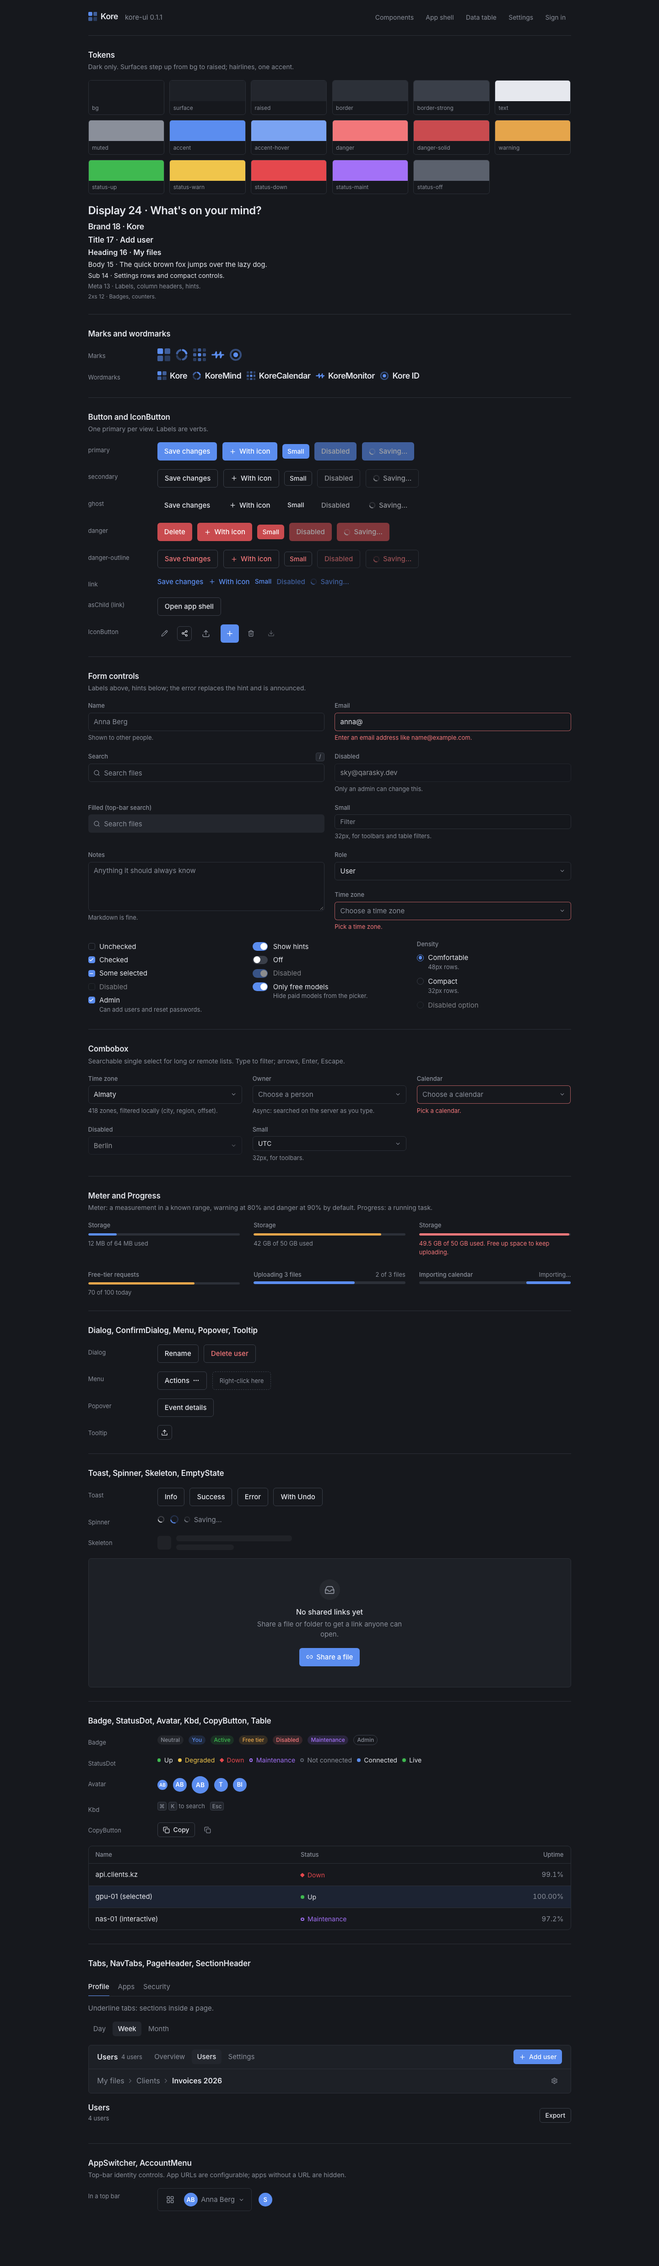
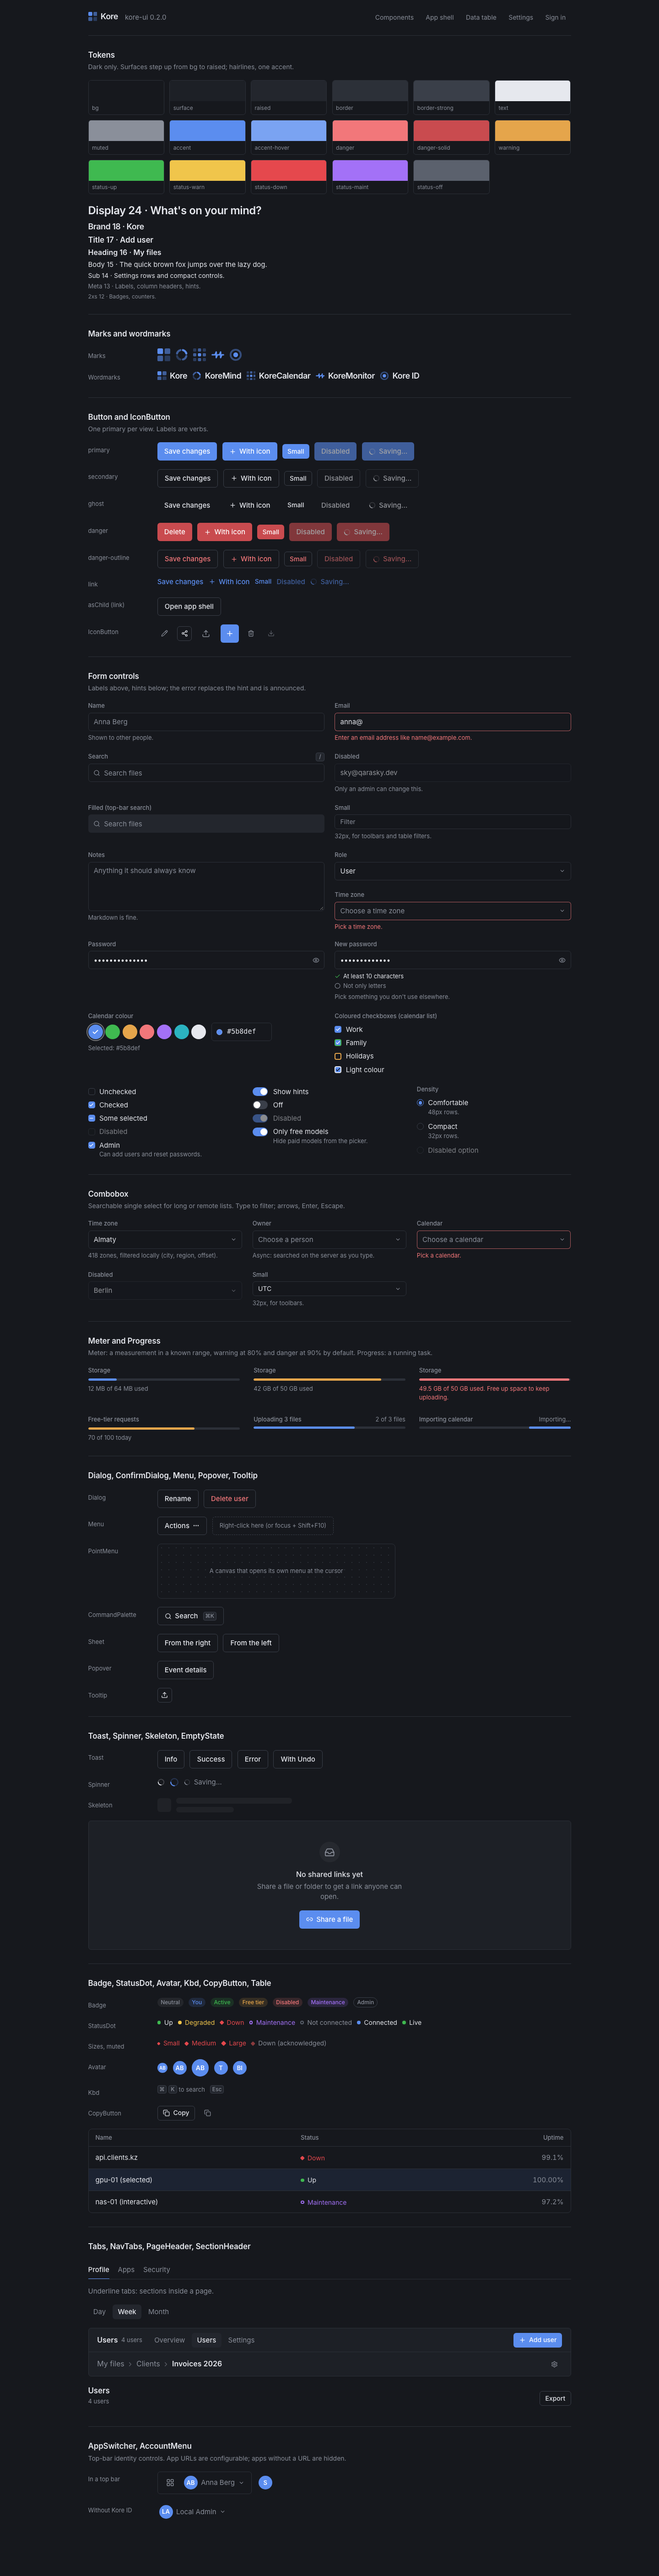
Showcase the 0.2.0 components; new screenshots
Command palette (global ⌘K on the files page), details Sheet (side and bottom),
keyboard-opened ContextMenu with a submenu, PointMenu on a canvas, PasswordInput,
ColorSwatchPicker and coloured checkboxes, StatusDot sizes/muted, AccountMenu
without Kore ID, AuthScreen set-password.

diff --git a/packages/kore-ui/showcase/src/pages/Gallery.tsx b/packages/kore-ui/showcase/src/pages/Gallery.tsx
@@ -7,13 +7,18 @@ import {
   Button,
   Card,
   Checkbox,
+  ColorSwatchPicker,
   Combobox,
+  CommandPalette,
   ConfirmDialog,
   ContextMenu,
   ContextMenuContent,
   ContextMenuItem,
   ContextMenuLabel,
   ContextMenuSeparator,
+  ContextMenuSub,
+  ContextMenuSubContent,
+  ContextMenuSubTrigger,
   ContextMenuTrigger,
   CopyButton,
   Dialog,
@@ -40,6 +45,16 @@ import {
   MenuTrigger,
   NavTabs,
   PageHeader,
+  PasswordInput,
+  PointMenu,
+  Sheet,
+  SheetBody,
+  SheetContent,
+  SheetFooter,
+  SheetTrigger,
+  minLengthRule,
+  pointFromEvent,
+  type MenuPoint,
   Popover,
   PopoverContent,
   PopoverTrigger,
@@ -72,7 +87,24 @@ import {
   useToast,
   type ProductId,
 } from "@qarasky/kore-ui";
-import { Copy, Download, FolderOpen, Inbox, Link2, MoreHorizontal, Pencil, Plus, Search, Settings, Share2, Trash2, Upload } from "lucide-react";
+import {
+  Archive,
+  Copy,
+  Download,
+  FolderOpen,
+  HardDrive,
+  Inbox,
+  KeyRound,
+  Link2,
+  MoreHorizontal,
+  Pencil,
+  Plus,
+  Search,
+  Settings,
+  Share2,
+  Trash2,
+  Upload,
+} from "lucide-react";
 import { useState, type ReactNode } from "react";
 import { ACCOUNT_URL, APP_URLS, ME, PAGES } from "../demo";
 import { TIME_ZONES, searchPeople } from "../timezones";
@@ -102,6 +134,9 @@ export function Gallery() {
   const toast = useToast();
   const [checked, setChecked] = useState<boolean | "indeterminate">("indeterminate");
   const [showHints, setShowHints] = useState(true);
+  const [paletteOpen, setPaletteOpen] = useState(false);
+  const [point, setPoint] = useState<MenuPoint | null>(null);
+  const [colour, setColour] = useState("#5b8def");
 
   return (
     <div className="mx-auto max-w-[1100px] px-6 pb-24">
@@ -109,7 +144,7 @@ export function Gallery() {
         <div className="text-brand">
           <Wordmark app="kore" />
         </div>
-        <span className="text-muted">kore-ui 0.1.1</span>
+        <span className="text-muted">kore-ui 0.2.0</span>
         <nav aria-label="Showcase pages" className="ml-auto flex flex-wrap gap-1">
           {PAGES.map((p) => (
             <a key={p.href} href={p.href} className="rounded-ui px-3 py-1.5 text-sub text-muted hover:bg-white/5 hover:text-text">
@@ -253,6 +288,41 @@ export function Gallery() {
             </Field>
           </div>
         </div>
+        <div id="password-colour" className="grid gap-6 md:grid-cols-2">
+          <Field label="Password">
+            <PasswordInput defaultValue="hunter2hunter2" />
+          </Field>
+          <Field label="New password" hint="Pick something you don't use elsewhere.">
+            <PasswordInput
+              newPassword
+              defaultValue="correct horse"
+              rules={[minLengthRule(10), { label: "Not only letters", test: (p) => /[^a-z]/i.test(p.replace(/ /g, "")) }]}
+            />
+          </Field>
+          <Field label="Calendar colour" hint={`Selected: ${colour}`}>
+            <ColorSwatchPicker
+              value={colour}
+              onValueChange={setColour}
+              allowCustom
+              colors={[
+                { value: "#5b8def", label: "Blue" },
+                { value: "#3fb950", label: "Green" },
+                { value: "#e5a54b", label: "Amber" },
+                { value: "#f2777a", label: "Red" },
+                { value: "#a371f7", label: "Violet" },
+                { value: "#2bb3c0", label: "Teal" },
+                { value: "#e6e8ee", label: "Light" },
+              ]}
+            />
+          </Field>
+          <fieldset className="flex flex-col">
+            <legend className="mb-1.5 text-meta font-medium text-muted">Coloured checkboxes (calendar list)</legend>
+            <Checkbox label="Work" color="#5b8def" defaultChecked />
+            <Checkbox label="Family" color="#3fb950" defaultChecked />
+            <Checkbox label="Holidays" color="#e5a54b" />
+            <Checkbox label="Light colour" color="#e6e8ee" defaultChecked />
+          </fieldset>
+        </div>
         <div className="grid gap-6 md:grid-cols-3">
           <div className="flex flex-col">
             <Checkbox label="Unchecked" />
@@ -384,19 +454,102 @@ export function Gallery() {
           </Menu>
           <ContextMenu>
             <ContextMenuTrigger asChild>
-              <div className="flex h-control items-center rounded-ui border border-dashed border-border-strong px-4 text-meta text-muted">
-                Right-click here
+              <div
+                tabIndex={0}
+                data-testid="context-area"
+                className="flex h-control items-center rounded-ui border border-dashed border-border-strong px-4 text-meta text-muted"
+              >
+                Right-click here (or focus + Shift+F10)
               </div>
             </ContextMenuTrigger>
             <ContextMenuContent>
               <ContextMenuLabel>Selection</ContextMenuLabel>
-              <ContextMenuItem icon={<Copy />}>Copy</ContextMenuItem>
+              <ContextMenuItem icon={<Copy />} shortcut="⌘C">
+                Copy
+              </ContextMenuItem>
+              <ContextMenuSub>
+                <ContextMenuSubTrigger icon={<Archive />}>Move to</ContextMenuSubTrigger>
+                <ContextMenuSubContent>
+                  <ContextMenuItem>Archive</ContextMenuItem>
+                  <ContextMenuItem>Shared space</ContextMenuItem>
+                </ContextMenuSubContent>
+              </ContextMenuSub>
               <ContextMenuSeparator />
               <ContextMenuItem danger icon={<Trash2 />}>
                 Delete
               </ContextMenuItem>
             </ContextMenuContent>
           </ContextMenu>
+        </Row>
+        <Row label="PointMenu">
+          <div
+            tabIndex={0}
+            data-testid="canvas"
+            aria-label="Superboard canvas"
+            onContextMenu={(e) => {
+              e.preventDefault();
+              setPoint(pointFromEvent(e));
+            }}
+            className="grid h-[120px] w-full max-w-[520px] place-items-center rounded-overlay border border-border bg-[radial-gradient(circle,var(--color-border)_1px,transparent_1px)] [background-size:16px_16px] text-meta text-muted"
+          >
+            A canvas that opens its own menu at the cursor
+          </div>
+          <PointMenu point={point} label="Actions for edge-02" onClose={() => setPoint(null)}>
+            <MenuItem icon={<FolderOpen />}>Open history</MenuItem>
+            <MenuItem icon={<Pencil />}>Rename</MenuItem>
+            <MenuSeparator />
+            <MenuItem danger icon={<Trash2 />}>
+              Remove server
+            </MenuItem>
+          </PointMenu>
+        </Row>
+        <Row label="CommandPalette">
+          <Button onClick={() => setPaletteOpen(true)} data-testid="open-palette">
+            <Search /> Search <Kbd className="ml-1">⌘K</Kbd>
+          </Button>
+          <CommandPalette
+            open={paletteOpen}
+            onOpenChange={setPaletteOpen}
+            shortcut={false}
+            groups={[
+              {
+                heading: "Go to",
+                commands: [
+                  { id: "files", label: "My files", icon: <HardDrive />, shortcut: "G F", onSelect: () => {} },
+                  { id: "trash", label: "Trash", icon: <Trash2 />, shortcut: "G T", onSelect: () => {} },
+                ],
+              },
+              {
+                heading: "Actions",
+                commands: [
+                  { id: "upload", label: "Upload files", icon: <Upload />, shortcut: ["⌘", "U"], onSelect: () => {} },
+                  { id: "pw", label: "Change password", icon: <KeyRound />, description: "Kore ID", onSelect: () => {} },
+                ],
+              },
+            ]}
+          />
+        </Row>
+        <Row label="Sheet">
+          {(["right", "left"] as const).map((side) => (
+            <Sheet key={side}>
+              <SheetTrigger asChild>
+                <Button data-testid={`open-sheet-${side}`}>From the {side}</Button>
+              </SheetTrigger>
+              <SheetContent title="edge-02" description="Server · Almaty · up for 12 days" side={side}>
+                <SheetBody className="flex flex-col gap-4">
+                  <StatusDot status="up" label="Up" tintLabel={false} />
+                  <Field label="Display name">
+                    <Input defaultValue="edge-02" />
+                  </Field>
+                  <p className="text-muted">Side panels keep the page in view: details, quick edits, filters.</p>
+                </SheetBody>
+                <SheetFooter>
+                  <Button>Cancel</Button>
+                  <Button variant="primary">Save</Button>
+                </SheetFooter>
+              </SheetContent>
+            </Sheet>
+          ))}
         </Row>
         <Row label="Popover">
           <Popover>
@@ -491,6 +644,12 @@ export function Gallery() {
           <StatusDot status="off" label="Not connected" />
           <StatusDot status="accent" label="Connected" />
           <StatusDot status="up" label="Live" pulse tintLabel={false} />
+        </Row>
+        <Row label="Sizes, muted">
+          <StatusDot status="down" size="sm" label="Small" />
+          <StatusDot status="down" label="Medium" />
+          <StatusDot status="down" size="lg" label="Large" />
+          <StatusDot status="down" muted label="Down (acknowledged)" />
         </Row>
         <Row label="Avatar">
           <Avatar name="Anna Berg" size="sm" />
@@ -611,6 +770,12 @@ export function Gallery() {
             <AccountMenu user={ME} accountUrl={ACCOUNT_URL} apps={{ urls: APP_URLS, current: "korecalendar" }} onSignOut={() => void toast.show({ message: "Signed out" })} />
           </div>
           <AccountMenu user={{ email: "sky@qarasky.dev" }} accountUrl={ACCOUNT_URL} showName={false} onSignOut={() => {}} />
+        </Row>
+        <Row label="Without Kore ID">
+          <AccountMenu user={{ name: "Local Admin", email: "admin@kore.test" }} onSignOut={() => {}} labels={{ menu: "Local account" }}>
+            <MenuItem icon={<Settings />}>Settings</MenuItem>
+            <MenuItem icon={<KeyRound />}>Change password</MenuItem>
+          </AccountMenu>
         </Row>
       </Section>
     </div>

diff --git a/packages/kore-ui/showcase/src/pages/FilesPage.tsx b/packages/kore-ui/showcase/src/pages/FilesPage.tsx
@@ -1,6 +1,11 @@
 import {
   AppShell,
   Button,
+  CommandPalette,
+  Sheet,
+  SheetBody,
+  SheetContent,
+  SheetFooter,
   ConfirmDialog,
   ContextMenu,
   ContextMenuContent,
@@ -43,6 +48,7 @@ import {
   Folder,
   FolderPlus,
   HardDrive,
+  Info,
   Link2,
   MoreHorizontal,
   Pencil,
@@ -83,8 +89,10 @@ export function FilesPage() {
   const [collapsed, setCollapsed] = useState(() => localStorage.getItem(COLLAPSED_KEY) === "1");
   const [deleting, setDeleting] = useState<Row | null>(null);
   const [folderOpen, setFolderOpen] = useState(false);
+  const [details, setDetails] = useState<Row | null>(null);
 
   const actions = (row: Row) => [
+    { id: "details", label: "Details", icon: <Info />, run: () => setDetails(row) },
     { id: "rename", label: "Rename", icon: <Pencil />, run: () => toast.show({ message: `Renamed “${row.name}”` }) },
     { id: "download", label: "Download", icon: <Download />, run: () => toast.show({ message: "Download started" }) },
     { id: "share", label: "Share link", icon: <Link2 />, run: () => toast.show({ message: "Link copied", tone: "success" }) },
@@ -237,6 +245,62 @@ export function FilesPage() {
           </TableBody>
         </Table>
       </div>
+
+      <CommandPalette
+        placeholder="Search files, or jump to a section…"
+        groups={[
+          {
+            heading: "Go to",
+            commands: [
+              { id: "files", label: "My files", icon: <HardDrive />, shortcut: "G F", onSelect: () => (window.location.hash = "#/app") },
+              { id: "shared", label: "Shared space", icon: <Users />, onSelect: () => {} },
+              { id: "trash", label: "Trash", icon: <Trash2 />, shortcut: "G T", onSelect: () => {} },
+              { id: "admin", label: "Admin", icon: <Shield />, onSelect: () => (window.location.hash = "#/users") },
+            ],
+          },
+          {
+            heading: "Files",
+            commands: ROWS.map((r) => ({
+              id: r.name,
+              label: r.name,
+              icon: r.kind === "folder" ? <Folder /> : <FileText />,
+              description: r.modified,
+              onSelect: () => setDetails(r),
+            })),
+          },
+          {
+            heading: "Actions",
+            commands: [
+              { id: "new-folder", label: "New folder", icon: <FolderPlus />, shortcut: ["⇧", "N"], onSelect: () => setFolderOpen(true) },
+              { id: "upload", label: "Upload files", icon: <Upload />, shortcut: ["⌘", "U"], onSelect: () => {} },
+            ],
+          },
+        ]}
+      />
+
+      <Sheet open={details !== null} onOpenChange={(open) => !open && setDetails(null)}>
+        <SheetContent title={details?.name ?? ""} description={details ? `Modified ${details.modified} · ${details.size}` : undefined}>
+          <SheetBody className="flex flex-col gap-5">
+            <div className="grid h-40 place-items-center rounded-ui border border-border bg-surface">{details ? ICON[details.kind] : null}</div>
+            <dl className="grid grid-cols-[120px_1fr] gap-y-2 text-sub">
+              <dt className="text-muted">Type</dt>
+              <dd>{details?.kind === "folder" ? "Folder" : "File"}</dd>
+              <dt className="text-muted">Size</dt>
+              <dd>{details?.size}</dd>
+              <dt className="text-muted">Owner</dt>
+              <dd>Anna Berg</dd>
+              <dt className="text-muted">Location</dt>
+              <dd>My files</dd>
+            </dl>
+          </SheetBody>
+          <SheetFooter>
+            <Button onClick={() => setDetails(null)}>Close</Button>
+            <Button variant="primary">
+              <Link2 /> Share link
+            </Button>
+          </SheetFooter>
+        </SheetContent>
+      </Sheet>
 
       <ConfirmDialog
         open={deleting !== null}

diff --git a/packages/kore-ui/showcase/src/pages/AuthPage.tsx b/packages/kore-ui/showcase/src/pages/AuthPage.tsx
@@ -1,4 +1,4 @@
-import { AppMark, AuthScreen, Button } from "@qarasky/kore-ui";
+import { AppMark, AuthScreen, Button, minLengthRule } from "@qarasky/kore-ui";
 import { useState } from "react";
 
 function Art() {
@@ -27,6 +27,26 @@ export function AuthPage({ variant }: { variant?: string }) {
           </Button>
         </div>
       </AuthScreen>
+    );
+  }
+
+  if (variant === "setup") {
+    return (
+      <AuthScreen
+        app="kore-id"
+        mode="set-password"
+        description="Welcome, Anna. Choose a password to finish setting up your account."
+        error={error}
+        password={{
+          defaultEmail: "anna@northwind.example",
+          emailReadOnly: true,
+          rules: [minLengthRule(10), { label: "No more than 128 characters", test: (p) => p.length <= 128 }],
+          onSubmit: async () => {
+            await new Promise((r) => setTimeout(r, 700));
+            setError("This setup link has expired. Ask your admin for a new one.");
+          },
+        }}
+      />
     );
   }
 
